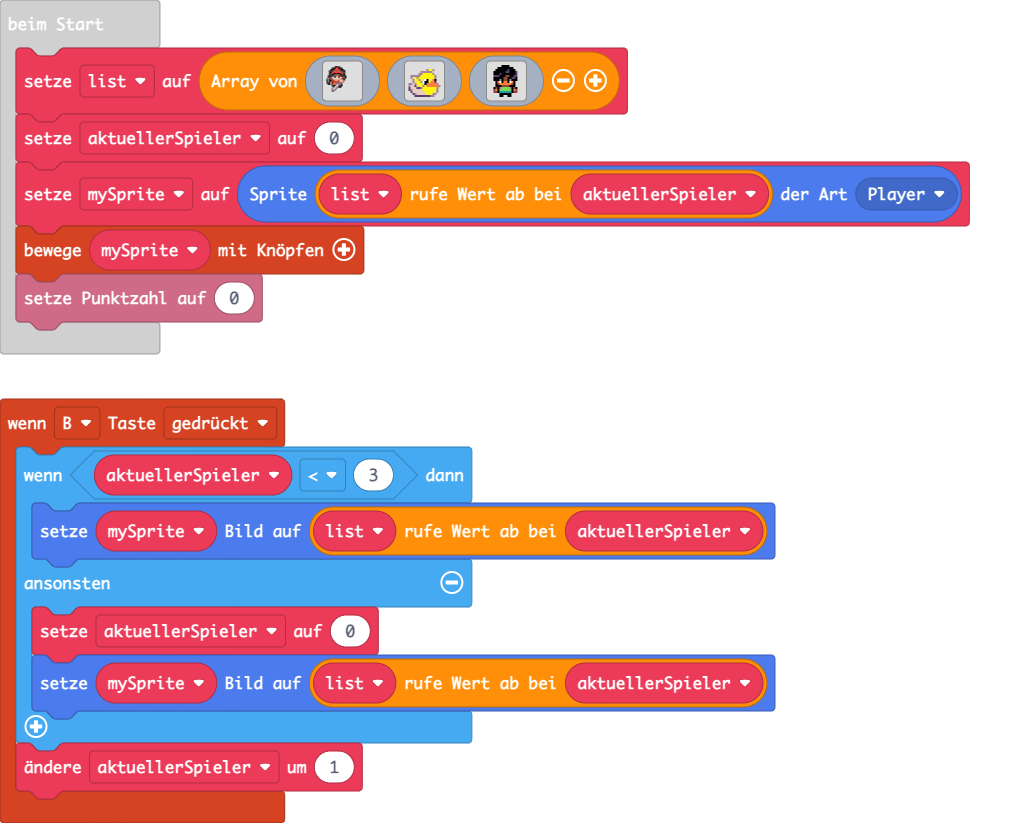
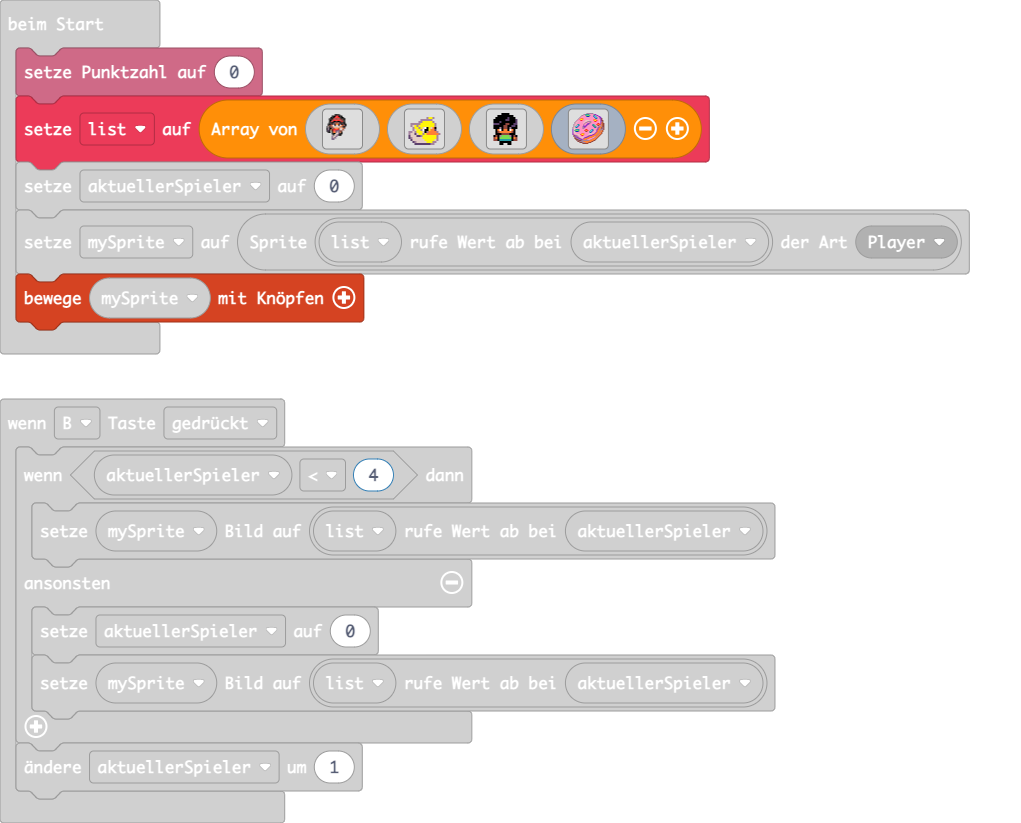
Donut hinzugefügt

diff --git a/main.ts b/main.ts
@@ -1,5 +1,5 @@
 controller.B.onEvent(ControllerButtonEvent.Pressed, function () {
-    if (aktuellerSpieler < 3) {
+    if (aktuellerSpieler < 4) {
         mySprite.setImage(list[aktuellerSpieler])
     } else {
         aktuellerSpieler = 0
@@ -10,6 +10,7 @@ controller.B.onEvent(ControllerButtonEvent.Pressed, function () {
 let mySprite: Sprite = null
 let aktuellerSpieler = 0
 let list: Image[] = []
+info.setScore(0)
 list = [img`
     ........................
     ......ffff..............
@@ -69,8 +70,40 @@ list = [img`
     e e f 6 6 6 6 6 6 f e e . 
     . . . f f f f f f . . . . 
     . . . f f . . f f . . . . 
+    `, img`
+    ..............bbbbbbb...........
+    ...........bb66663333baa........
+    .........bb3367776333663aa......
+    ........b33333888333389633aa....
+    .......b3333333333333389633aa...
+    ......b34443333333333338633bae..
+    .....b3455433333333334443333ae..
+    ....b33322333dddd3333455233daee.
+    ...b3d333333dd3bbbb33322333dabe.
+    ..b3d333333d3bb33bb33333333da4e.
+    ..bd33333333b33aab3333333223a4ee
+    .b3d3663333b33aab33366332442b4ee
+    .bd3b983333a3aa3333387633ee3b4ee
+    .bd6983333baaa333333387633bb4bee
+    b3d6833333bba333333333863ba44ebe
+    bdd3333333bb3333333333333a44bebe
+    add666633333322333366333ba44bbbe
+    ad67776333332442336983d3a444b4e.
+    add888b333333ee3369833d3a44b44e.
+    add333333333333336833d3a444b4e..
+    a3dd3333344433333dddd3a444b44e..
+    ab33ddd325543333dd33aa444b44e...
+    .eabb3dd32233333baaa4444b44e....
+    .ebabb3d333d33baa444443b44e.....
+    ..ebaab3ddd3aaa4444433b44e......
+    ..eebbaab33a44444333b444e.......
+    ...eeebbaab444b333b4444e........
+    ....ebeeebbbbbbbb4444ee.........
+    .....eebbbb44444444ee...........
+    .......eeebbb444eee.............
+    ..........eeeeee................
+    ................................
     `]
 aktuellerSpieler = 0
 mySprite = sprites.create(list[aktuellerSpieler], SpriteKind.Player)
 controller.moveSprite(mySprite)
-info.setScore(0)

diff --git a/images.g.ts b/images.g.ts
@@ -65,31 +65,39 @@ e e f 6 6 6 6 6 6 f e e .
 . . . f f f f f f . . . . 
 . . . f f . . f f . . . . 
 `;
-            case "image2":return img`
-........................
-......ffff..............
-....fff22fff............
-...fff2222fff...........
-..fffeeeeeefff..........
-..ffe222222eef..........
-..fe2ffffff2ef..........
-..ffffeeeeffff..........
-.ffefbf44fbfeff.........
-.fee41fddf14eef.........
-fdfeeddddd4eff..........
-fbffee444edd4e..........
-fbf4f2222edde...........
-fcf.f22cccee............
-.ff.f44cdc4f............
-....fffddcff............
-.....fddcff.............
-....cddc................
-....cdc.................
-....cc..................
-........................
-........................
-........................
-........................
+            case "image5":return img`
+..............bbbbbbb...........
+...........bb66663333baa........
+.........bb3367776333663aa......
+........b33333888333389633aa....
+.......b3333333333333389633aa...
+......b34443333333333338633bae..
+.....b3455433333333334443333ae..
+....b33322333dddd3333455233daee.
+...b3d333333dd3bbbb33322333dabe.
+..b3d333333d3bb33bb33333333da4e.
+..bd33333333b33aab3333333223a4ee
+.b3d3663333b33aab33366332442b4ee
+.bd3b983333a3aa3333387633ee3b4ee
+.bd6983333baaa333333387633bb4bee
+b3d6833333bba333333333863ba44ebe
+bdd3333333bb3333333333333a44bebe
+add666633333322333366333ba44bbbe
+ad67776333332442336983d3a444b4e.
+add888b333333ee3369833d3a44b44e.
+add333333333333336833d3a444b4e..
+a3dd3333344433333dddd3a444b44e..
+ab33ddd325543333dd33aa444b44e...
+.eabb3dd32233333baaa4444b44e....
+.ebabb3d333d33baa444443b44e.....
+..ebaab3ddd3aaa4444433b44e......
+..eebbaab33a44444333b444e.......
+...eeebbaab444b333b4444e........
+....ebeeebbbbbbbb4444ee.........
+.....eebbbb44444444ee...........
+.......eeebbb444eee.............
+..........eeeeee................
+................................
 `;
         }
         return null;
